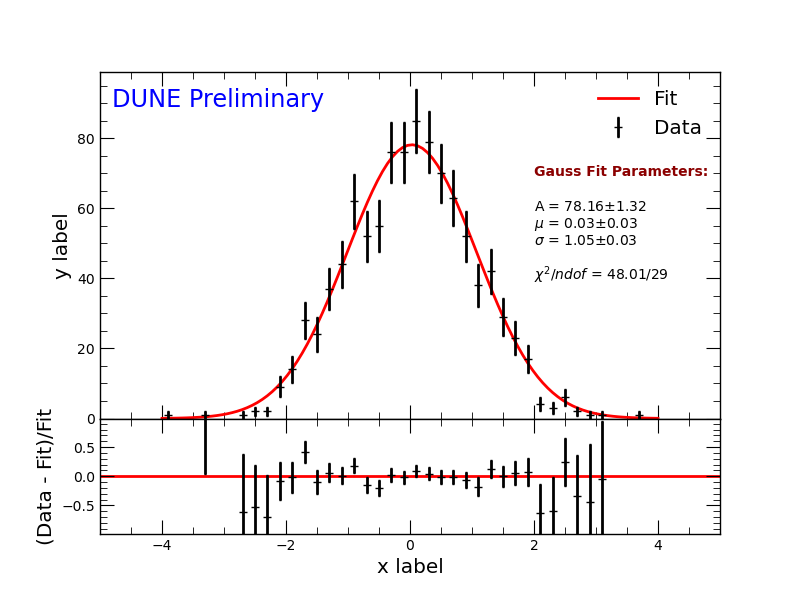
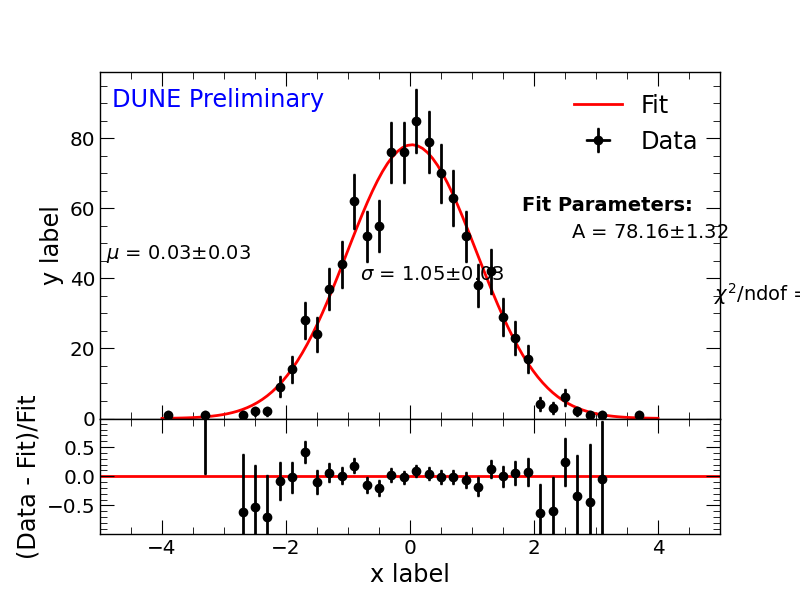
Update matplotlib DataMC plot
- Fix image in readme to match the one in the example
- Shift fit parameter text slightly left because Adam said so

diff --git a/examples/matplotlib/example.py b/examples/matplotlib/example.py
@@ -98,21 +98,21 @@ def DataMC(pdf):
     axs[0].plot(x_fit, y_fit, color='r', label="Fit")
     axs[0].errorbar(x=bin_centers[mask], y=counts[mask], xerr=0, yerr=abs_errors[mask],
                  color='black', fmt='o', capsize=1, label="Data")
-    axs[0].text(0.70, 0.60, 'Fit Parameters:',
+    axs[0].text(0.68, 0.60, 'Fit Parameters:',
              fontdict={'size': 14, 'weight': 'bold'},
              transform=axs[0].transAxes)
 
     fontdict = {"size": 14}
-    axs[0].text(0.70, 0.52, 'A = {0:0.2f}$\pm${1:0.2f}'.format(A, dA),
+    axs[0].text(0.68, 0.52, 'A = {0:0.2f}$\pm${1:0.2f}'.format(A, dA),
                 fontdict=fontdict,
                 transform=axs[0].transAxes)
-    axs[0].text(0.70, 0.46, r'$\mu$ = {0:0.2f}$\pm${1:0.2f}'.format(x0, dx0),
+    axs[0].text(0.68, 0.46, r'$\mu$ = {0:0.2f}$\pm${1:0.2f}'.format(x0, dx0),
                 fontdict=fontdict,
                 transform=axs[0].transAxes)
-    axs[0].text(0.70, 0.40, r'$\sigma$ = {0:0.2f}$\pm${1:0.2f}'.format(sig, dsig),
+    axs[0].text(0.68, 0.40, r'$\sigma$ = {0:0.2f}$\pm${1:0.2f}'.format(sig, dsig),
                 fontdict=fontdict,
                 transform=axs[0].transAxes)
-    axs[0].text(0.70, 0.34, '$\chi^2$/ndof = {0:0.2f}/{1:d}'.format(chi2, ndf),
+    axs[0].text(0.68, 0.34, '$\chi^2$/ndof = {0:0.2f}/{1:d}'.format(chi2, ndf),
                 fontdict=fontdict,
                 transform=axs[0].transAxes)
     axs[0].legend(fontsize="xx-large")  # since the upper panel is only 70% of the whole canvas, the legend is (by default) too small
